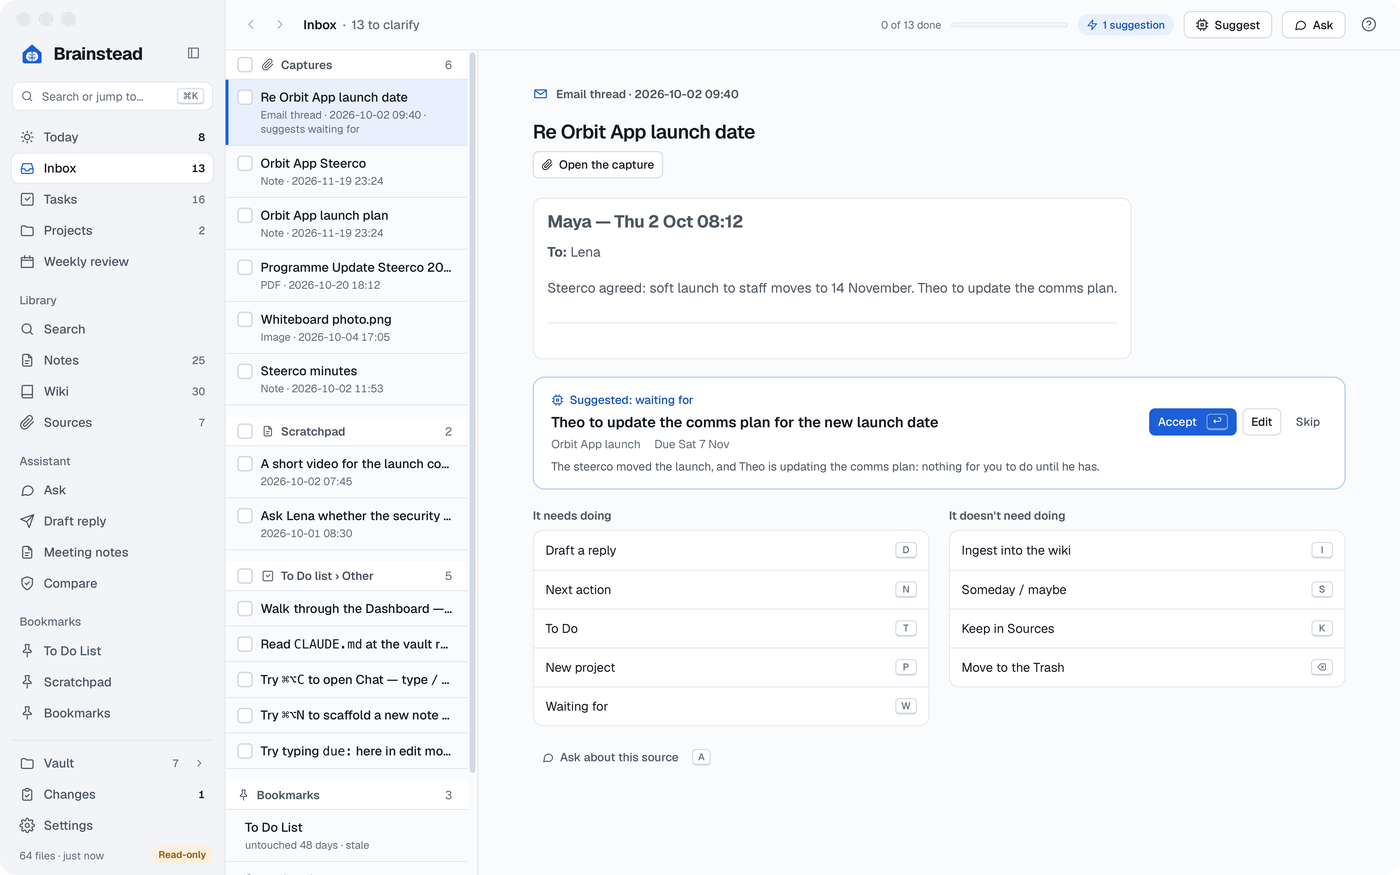
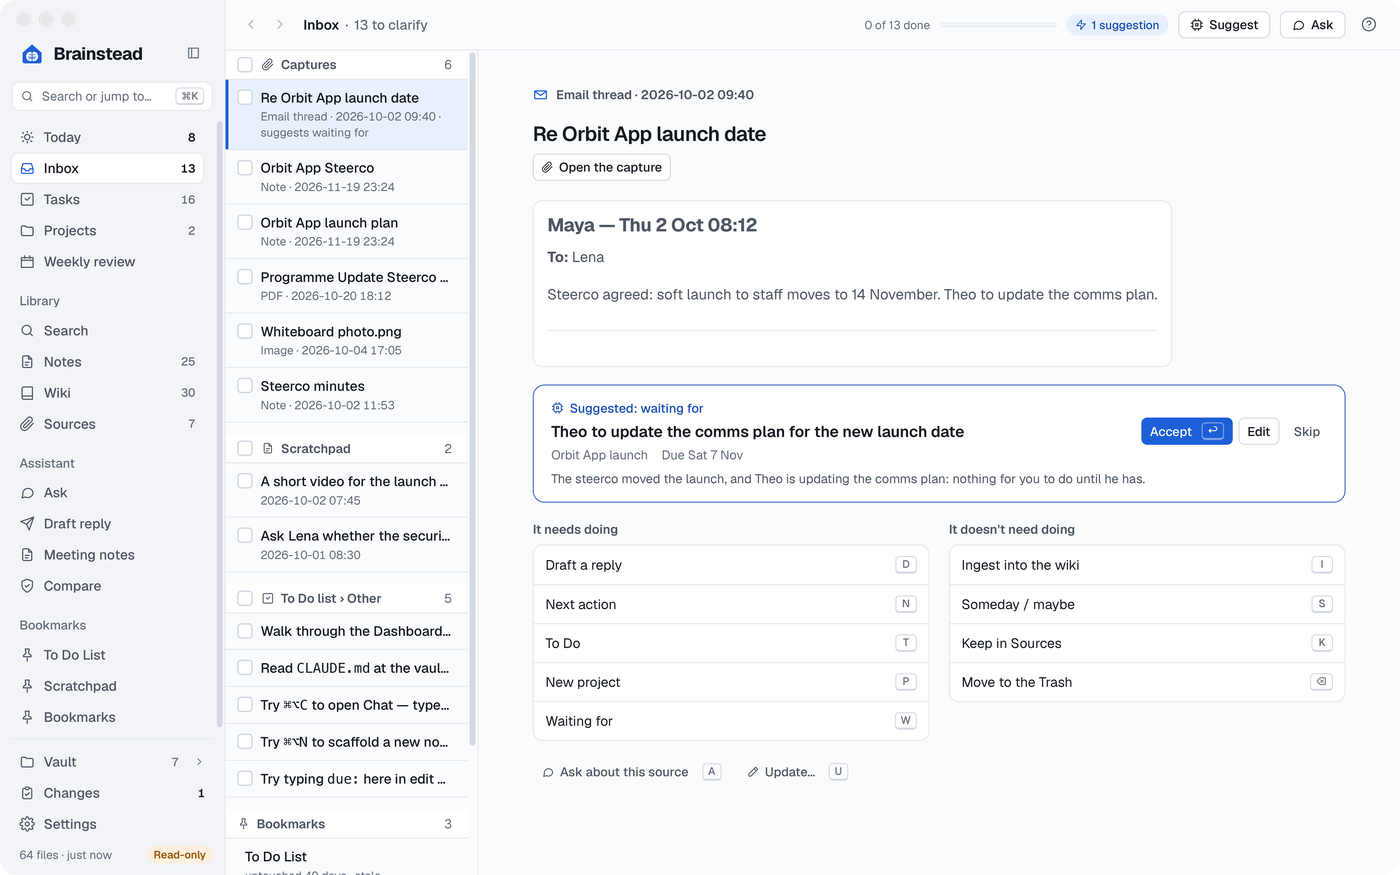
The UI's text is a step larger: body 14px, secondary 13px, chips 12px, headings with them; rows and spacing as they were

diff --git a/src/styles.css b/src/styles.css
@@ -62,17 +62,18 @@
   --display: "Geist Variable", -apple-system, "SF Pro Display", "Segoe UI Variable Display", "Segoe UI", system-ui, sans-serif;
   --mono: "Geist Mono Variable", ui-monospace, "SF Mono", Menlo, "Cascadia Mono", Consolas, monospace;
 
-  /* The type scale: every UI size is one of these (D-20261119-15). Note text follows --read-size and
-     the export looks keep their pt sizes; only the brand wordmark sits off the scale. */
-  --fs-2xs: 10px; /* rail labels, tiny pills, weekday initials */
-  --fs-xs: 11px; /* chips, counts, meta lines, hints */
-  --fs-sm: 12px; /* secondary text, rows' second line, small buttons */
-  --fs-base: 13px; /* the UI's body: rows, buttons, inputs */
-  --fs-md: 14px; /* reading-size UI text: Ask, Review bodies, empty states */
-  --fs-lg: 15px; /* pane titles, large inputs */
-  --fs-xl: 17px; /* dialog titles, capture box, big numbers */
-  --fs-2xl: 20px; /* panel headings */
-  --fs-3xl: 22px; /* .h2 */
+  /* The type scale: every UI size is one of these (D-20261119-15), a step up from the first
+     (D-20261120-10). Note text follows --read-size and the export looks keep their pt sizes; only
+     the brand wordmark sits off the scale. */
+  --fs-2xs: 11px; /* rail labels, tiny pills, weekday initials */
+  --fs-xs: 12px; /* chips, counts, meta lines, hints */
+  --fs-sm: 13px; /* secondary text, rows' second line, small buttons */
+  --fs-base: 14px; /* the UI's body: rows, buttons, inputs */
+  --fs-md: 15px; /* reading-size UI text: Ask, Review bodies, empty states */
+  --fs-lg: 16px; /* pane titles, large inputs */
+  --fs-xl: 18px; /* dialog titles, capture box, big numbers */
+  --fs-2xl: 21px; /* panel headings */
+  --fs-3xl: 23px; /* .h2 */
   --fs-display: 34px; /* .h1, the health score */
 
   /* The left panes, one width each kind: a nav or list beside a page (Inbox, Tasks, Search, Wiki,
